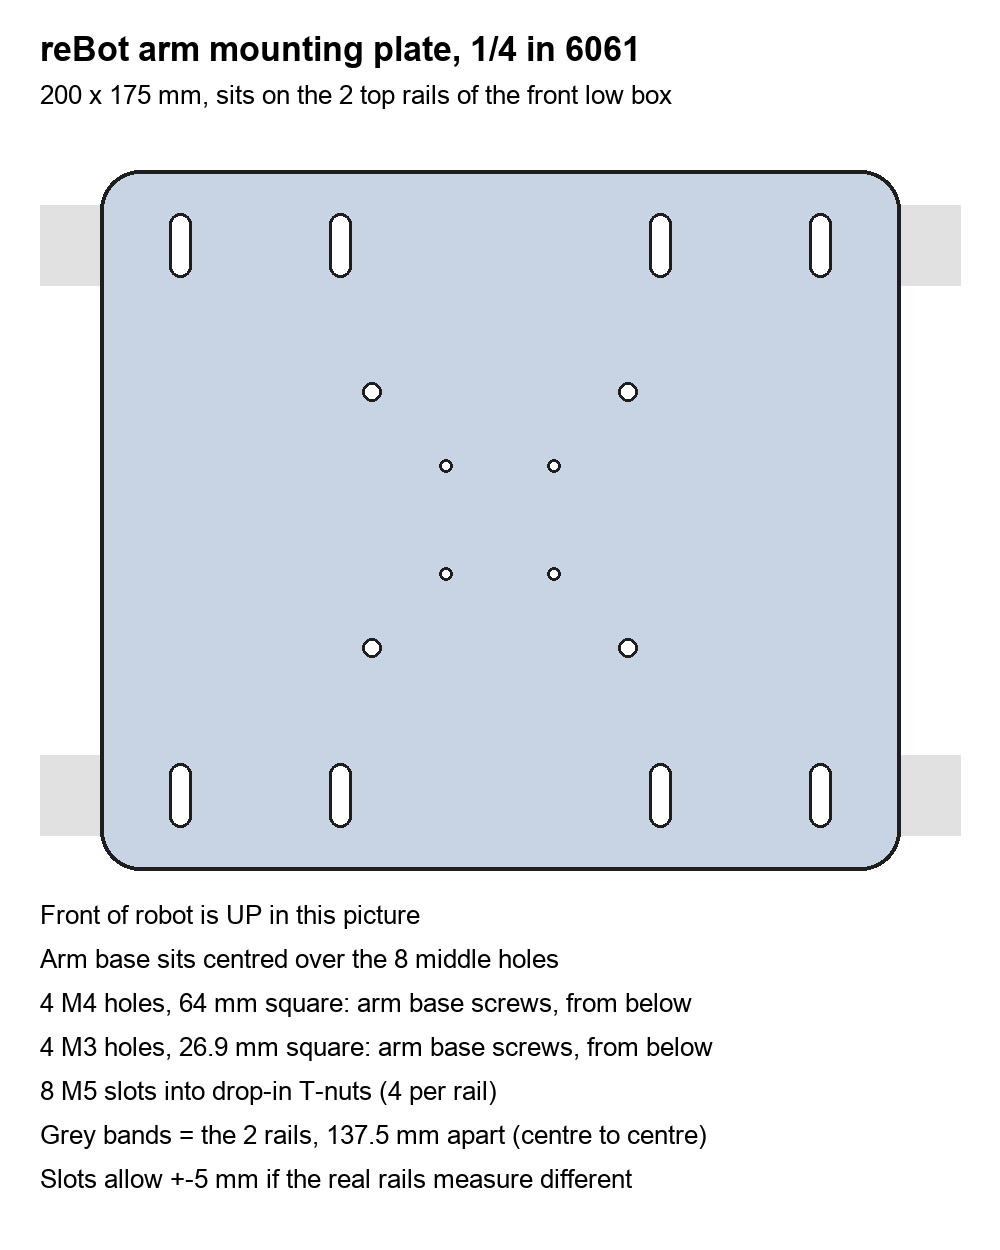
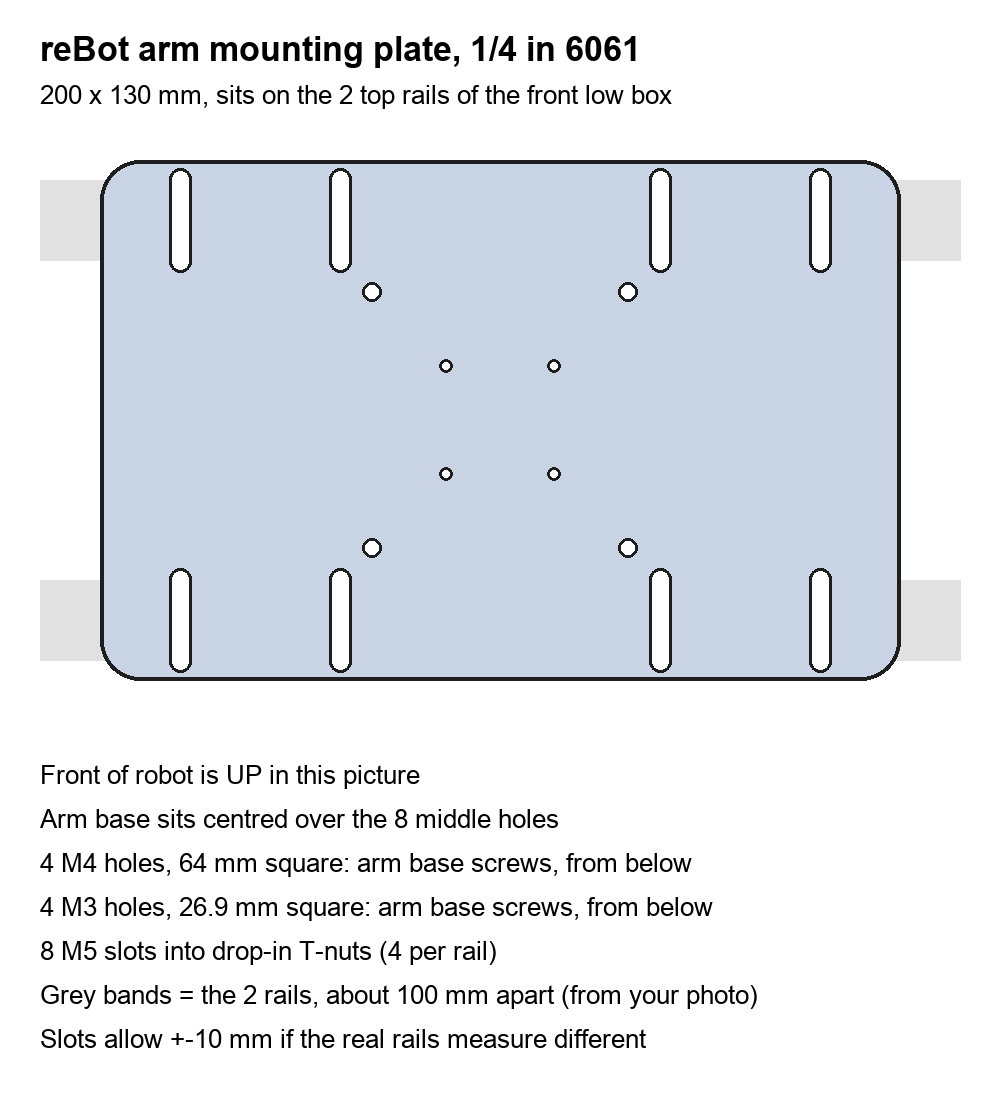
reBot plate: resize to the real front low box (~100 mm rail spacing from the 11/11 tape photo), longer slots

diff --git a/arm-rebot/make_arm_plate.py b/arm-rebot/make_arm_plate.py
@@ -2,16 +2,18 @@
 # Arm hole patterns read from Seeed's 01_BASE_Plate.step / 01_BASE_Link.step (github.com/Seeed-Projects/reBot-DevArm):
 #   4x M4 on a 64 mm square (their plate: 4.6 hole, 7.5 counterbore from below)
 #   4x M3 on a 26.88 mm square (their plate: 3.2 hole, 6.2 counterbore from below)
-# Plate sits on the two top cross rails of the front low box (frame v3 model: y = 135 and y = 272.5, 137.5 c-c, top at z 171),
-# centred left-right. 8 x M5 slots (5.5 x 16, long along the robot) into drop-in T-nuts, so real rail spacing can be off by +-5 mm.
+# Plate sits on the two top cross rails of the front low box. Real frame (Matt's 11/11 tape photo, A = 22 1/4 in): low box is about
+# 4 3/4 in long outside, so the rails are about 100 mm centre to centre (the Blender model's 137.5 is too long),
+# centred left-right. 8 x M5 slots (5.5 x 26, long along the robot) into drop-in T-nuts, so real rail spacing can be off by +-10 mm.
+# The M4 screw heads (from below) sit inside the 80 mm gap between the rails (holes at +-32, heads reach +-35.5).
 # 1/4 in 6061 (same as the steering plates). Screws for the arm go up from underneath, in the open gap between the rails.
 from PIL import Image, ImageDraw, ImageFont
-W, H = 200.0, 175.0                 # x across the robot, y along the robot
-RAIL = 137.5 / 2                    # rail centres from plate centre
+W, H = 200.0, 130.0                 # x across the robot, y along the robot
+RAIL = 100.0 / 2                    # rail centres from plate centre (judged from MEASURE_side.jpg, ~4 in c-c)
 HOLES = [(sx*32, sy*32, 4.6, "M4") for sx in (-1, 1) for sy in (-1, 1)] + \
         [(sx*13.44, sy*13.44, 3.2, "M3") for sx in (-1, 1) for sy in (-1, 1)]
 SLOTS = [(x, sy*RAIL) for x in (-80, -40, 40, 80) for sy in (-1, 1)]
-SW, SL = 5.5, 16.0
+SW, SL = 5.5, 26.0
 CR = 10.0                           # corner radius
 
 def dxf(path):
@@ -30,7 +32,7 @@ def dxf(path):
 dxf("rebot-mount-plate.dxf")
 
 # preview, phone friendly (portrait)
-K = 4.0; PW, PH = 1000, 1250; ox, oy = PW/2, 520
+K = 4.0; PW, PH = 1000, 1100; ox, oy = PW/2, 420
 im = Image.new("RGB",(PW,PH),"white"); dr = ImageDraw.Draw(im)
 f = ImageFont.truetype("/System/Library/Fonts/Supplemental/Arial.ttf", 26)
 fb = ImageFont.truetype("/System/Library/Fonts/Supplemental/Arial Bold.ttf", 34)
@@ -43,14 +45,14 @@ for x,y,d,lab in HOLES:
 for x,y in SLOTS:
     a = P(x-SW/2, y+SL/2); b = P(x+SW/2, y-SL/2); dr.rounded_rectangle([a,b], radius=SW/2*K, fill="white", outline=(30,30,30), width=3)
 dr.text((40,30), "reBot arm mounting plate, 1/4 in 6061", font=fb, fill="black")
-dr.text((40,80), "200 x 175 mm, sits on the 2 top rails of the front low box", font=f, fill="black")
+dr.text((40,80), "200 x 130 mm, sits on the 2 top rails of the front low box", font=f, fill="black")
 notes = ["Front of robot is UP in this picture",
          "Arm base sits centred over the 8 middle holes",
          "4 M4 holes, 64 mm square: arm base screws, from below",
          "4 M3 holes, 26.9 mm square: arm base screws, from below",
          "8 M5 slots into drop-in T-nuts (4 per rail)",
-         "Grey bands = the 2 rails, 137.5 mm apart (centre to centre)",
-         "Slots allow +-5 mm if the real rails measure different"]
-for i,t in enumerate(notes): dr.text((40, 900+i*44), t, font=f, fill="black")
+         "Grey bands = the 2 rails, about 100 mm apart (from your photo)",
+         "Slots allow +-10 mm if the real rails measure different"]
+for i,t in enumerate(notes): dr.text((40, 760+i*44), t, font=f, fill="black")
 im.save("rebot-mount-plate.png")
 print("ok")

diff --git a/arm-rebot/README.md b/arm-rebot/README.md
@@ -7,12 +7,13 @@ Assembled bundle $1,658; Star Arm 102 leader arm (for teaching it jobs) $200 sep
 
 ## Mounting plate
 `rebot-mount-plate.dxf` (made by `make_arm_plate.py`), preview `rebot-mount-plate.png`.
-- 200 x 175 mm, 1/4 in 6061, same as the steering plates.
+- 200 x 130 mm, 1/4 in 6061, same as the steering plates.
 - Arm holes copied from Seeed's base plate STEP: 4x M4 (4.6 mm) on a 64 mm square, 4x M3 (3.2 mm) on a 26.88 mm square,
   screws go up from below into the arm's base.
-- Sits across the two top cross rails of the front low box (137.5 mm centre to centre in the frame v3 model),
-  8 M5 slots (16 mm long) into drop-in T-nuts, so the real spacing can be off by +-5 mm.
-- Measure the real rail spacing before cutting; cardboard test first, same as the steering plates.
+- Sits across the two top cross rails of the front low box (about 100 mm centre to centre, judged from the
+  11/11 tape photo MEASURE_side.jpg; the Blender model's 137.5 is too long), 8 M5 slots (26 mm long) into drop-in T-nuts, so
+  the real spacing can be off by +-10 mm. The M4 screw heads fit in the 80 mm gap between the rails.
+- Cardboard test first, same as the steering plates. The antenna on the front deck moves to the top of the tall box.
 
 Tip check (model numbers): arm + 1.5 kg at full forward reach is about 2.5 kg·m about the front axle, against about
 8 kg·m from the robot's own weight, so roughly 3x margin.
